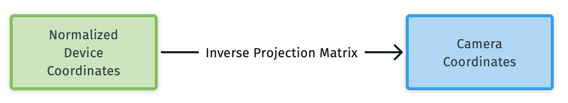
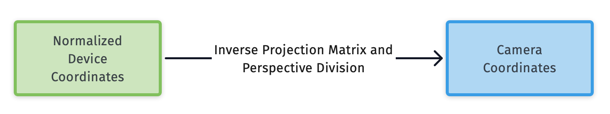
update some posts for opengl

diff --git a/_posts/2020-02-12-beginning-opengl-for-ios-matrix.md b/_posts/2020-02-12-beginning-opengl-for-ios-matrix.md
@@ -71,19 +71,7 @@ class Model {
 
 **3. Projection Matrix**
 
-先要理解一点就是透视，比如下图中的铁轨实际上几乎都是等宽的，离你越远的，你视觉上会觉得更窄：
-
-![OpenGL Rails](/images/opengl-rails.png)
-
-OpenGL 在这一步会执行 perspective division，就是将坐标 x, y, z 除以 w，从而得到区间在 [-1, 1] 之间的 normalized device coordinates，如下图所示，离的越远 w 值越大，就可以实现前面所说的透视：
-
-![OpenGL Perspective Division](/images/opengl-perspective-division.png)
-
-> To create the illusion of 3D on the screen, OpenGL will take each gl_Position and divide the x, y, and z components by the w component. When the w component is used to represent distance, this causes objects that are further away to be moved closer to the center of the rendering area, which then acts like a vanishing point. This is how OpenGL fools us into seeing a scene in 3D, using the same trick that artists have been using for centuries.
->
-> ---- Quote from [OpenGL ES 2 for Android](https://pragprog.com/book/kbogla/opengl-es-2-for-android)
-
-可以采用 Projection Matrix 来自动计算 w 的值：
+可以采用 Projection Matrix 来自动计算 w 的值，w 的作用下一步会讲解：
 
 {% highlight swift %}
 extension ViewController {
@@ -110,7 +98,21 @@ GLKMatrix4MakePerspective 参数的含义：
 
 ![OpenGL Perspective Frustum](/images/opengl-perspective-frustum.png)
 
-**4. Viewport Transformation**
+**4. Perspective Division**
+
+先要理解一点就是透视，比如下图中的铁轨实际上几乎都是等宽的，离你越远的，你视觉上会觉得更窄：
+
+![OpenGL Rails](/images/opengl-rails.png)
+
+OpenGL 在这一步会执行 perspective division，就是将坐标 x, y, z 除以 w，从而得到区间在 [-1, 1] 之间的 normalized device coordinates，如下图所示，离的越远 w 值越大，就可以实现前面所说的透视：
+
+![OpenGL Perspective Division](/images/opengl-perspective-division.png)
+
+> To create the illusion of 3D on the screen, OpenGL will take each gl_Position and divide the x, y, and z components by the w component. When the w component is used to represent distance, this causes objects that are further away to be moved closer to the center of the rendering area, which then acts like a vanishing point. This is how OpenGL fools us into seeing a scene in 3D, using the same trick that artists have been using for centuries.
+>
+> ---- Quote from [OpenGL ES 2 for Android](https://pragprog.com/book/kbogla/opengl-es-2-for-android)
+
+**5. Viewport Transformation**
 
 这一步是 OpenGL 自动完成的，通常我们只需要设置 Viewport：
 

diff --git a/_posts/2020-02-10-beginning-opengl-for-ios-vertex-shader-pipeline.md b/_posts/2020-02-10-beginning-opengl-for-ios-vertex-shader-pipeline.md
@@ -204,21 +204,21 @@ func uniformLocation(for name: String) -> GLint {
 
 ![OpenGL Pipeline Overview](/images/opengl-pipeline-overview.png)
 
-**1. Read Vertex Data**
+**1. Transfer Vertex Data**
 
-第一步，GPU 读取 Vertex 数据，我们创建 Vertex 数据是在 CPU 的内存中，要将 Vertex 的数据发给 GPU，后面会详细讲怎么做。
+第一步，给 GPU 传递 Vertex 数据，我们创建 Vertex 数据是在 CPU 的内存中，要将 Vertex 的数据发给 GPU，后面会详细讲怎么做。
 
 **2. Execute Vertex Shader**
 
 执行编写的 vertex shader。
 
-**3. Assemble Primitives**
+**3. Primitive Assemble**
 
 把几何图形拆解为最基本的三角形。
 
 ![OpenGL Pipeline Assemble Primitives](/images/opengl-pipeline-assemble-primitives.jpg)
 
-**4. Rasterize Primitives**
+**4. Rasterization**
 
 将最基本的三角形转换为像素，还需要根据顶点中的位置坐标和颜色来决定每个像素的位置坐标和颜色：
 
@@ -236,11 +236,15 @@ func uniformLocation(for name: String) -> GLint {
 
 执行编写的 fragment shader。
 
-**6. Testing and Blending**
+**6. Per-Fragment Operations**
 
-解决物体前后遮挡和透明物体混合的问题。
+针对每个 fragment 的操作。
 
-**7. Write to Frame Buffer**
+**7. Whole Framebuffer Operations**
+
+针对整个 framebuffer 的操作。
+
+**8. Frame Buffer**
 
 将结果写到 framebuffer。
 
